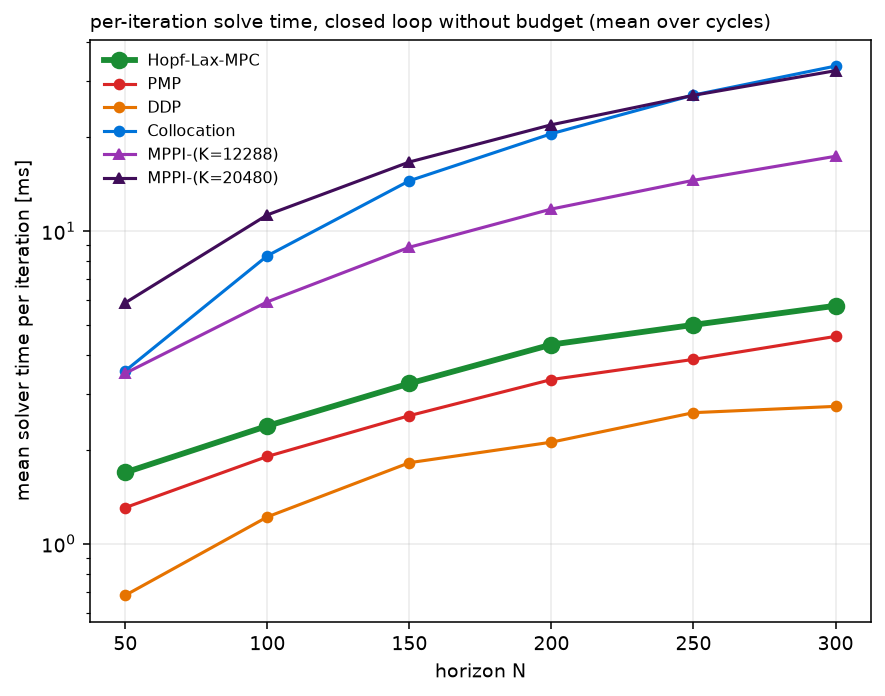
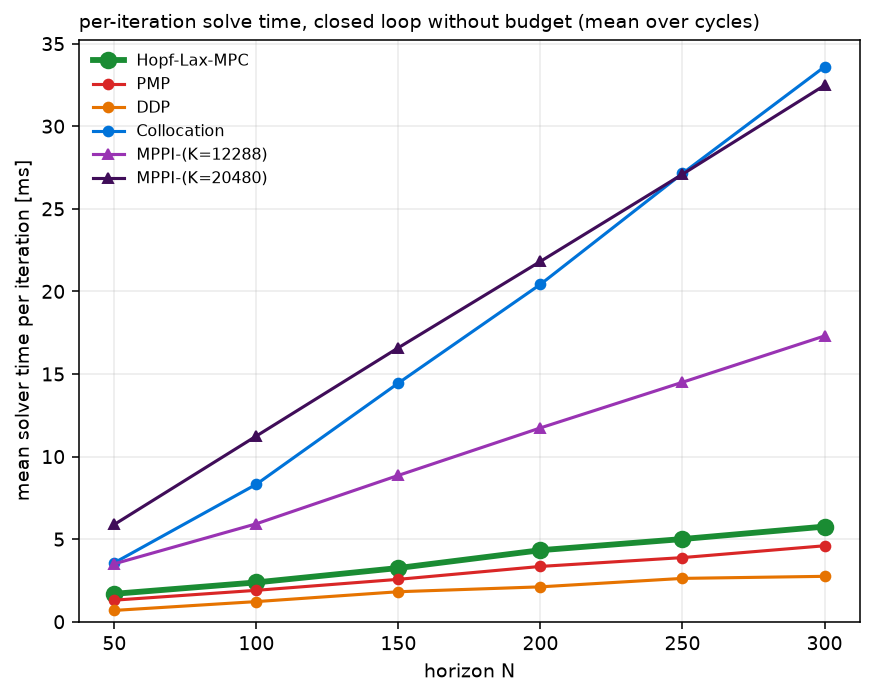
N sweep: per-iteration figures -- mean-only on a linear axis, plus a max-only figure

diff --git a/plot_N_sweep.py b/plot_N_sweep.py
@@ -80,7 +80,9 @@ def main():
     ap.add_argument("--out", default="figs/N_sweep_nobudget.png")
     ap.add_argument("--out2", default="figs/N_sweep_periter.png", help="per-iteration time figure")
     ap.add_argument("--out3", default="figs/N_sweep_periter_mean.png",
-                    help="per-iteration time figure, mean only")
+                    help="per-iteration time figure, mean only (linear axis)")
+    ap.add_argument("--out4", default="figs/N_sweep_periter_max.png",
+                    help="per-iteration time figure, max only (linear axis)")
     ap.add_argument("--complexity", default="results_complexity.pkl",
                     help="complexity-study pickle whose iterbench is overlaid (skipped if missing)")
     args = ap.parse_args()
@@ -209,23 +211,25 @@ def main():
     fig2.savefig(args.out2, bbox_inches="tight")
     print(f"saved {args.out2}")
 
-    # ---- figure 3: per-iteration solve time, MEAN only (no max, no benchmark overlay) ----
-    fig3, ax = plt.subplots(figsize=(7.2, 5.4), dpi=140)
-    for m in methods:
-        Ns = sorted(k[1] for k in runs if k[0] == m)
-        ss = [stats(runs[(m, N)]) for N in Ns]
-        col, lbl = COL.get(m, (.3, .3, .3)), LBL.get(m, m)
-        mk = "^" if m.startswith("mppi") else "o"
-        lw, ms = (3.0, 8) if m == "m1v2" else (1.6, 5)
-        ax.plot(Ns, [s["pi_mean"] for s in ss], "-" + mk, color=col, lw=lw, ms=ms, label=lbl)
-    ax.set_yscale("log")
-    ax.set_xlabel("horizon N"); ax.set_ylabel("mean solver time per iteration [ms]")
-    ax.set_title("per-iteration solve time, closed loop without budget (mean over cycles)",
-                 loc="left", fontsize=10)
-    ax.grid(alpha=0.25)
-    ax.legend(frameon=False, fontsize=8)
-    fig3.savefig(args.out3, bbox_inches="tight")
-    print(f"saved {args.out3}")
+    # ---- figures 3 / 4: per-iteration solve time, MEAN only and MAX only (linear axis, no overlay) ----
+    for key, ylab, word, out in [("pi_mean", "mean solver time per iteration [ms]", "mean", args.out3),
+                                 ("pi_max", "max solver time per iteration [ms]", "max", args.out4)]:
+        figk, ax = plt.subplots(figsize=(7.2, 5.4), dpi=140)
+        for m in methods:
+            Ns = sorted(k[1] for k in runs if k[0] == m)
+            ss = [stats(runs[(m, N)]) for N in Ns]
+            col, lbl = COL.get(m, (.3, .3, .3)), LBL.get(m, m)
+            mk = "^" if m.startswith("mppi") else "o"
+            lw, ms = (3.0, 8) if m == "m1v2" else (1.6, 5)
+            ax.plot(Ns, [s[key] for s in ss], "-" + mk, color=col, lw=lw, ms=ms, label=lbl)
+        ax.set_ylim(bottom=0)
+        ax.set_xlabel("horizon N"); ax.set_ylabel(ylab)
+        ax.set_title(f"per-iteration solve time, closed loop without budget ({word} over cycles)",
+                     loc="left", fontsize=10)
+        ax.grid(alpha=0.25)
+        ax.legend(frameon=False, fontsize=8)
+        figk.savefig(out, bbox_inches="tight")
+        print(f"saved {out}")
 
 
 if __name__ == "__main__":

diff --git a/README.md b/README.md
@@ -216,7 +216,8 @@ structural worst-case per-iteration benchmark of the complexity study (`results_
   The closed-loop means agree with the open-loop benchmark: PMP and DDP sit on their benchmark
   lines, and Hopf-Lax-MPC's mean lies between PMP's line and its own worst-case kick iteration.
 
-A mean-only version of the same figure is `figs/N_sweep_periter_mean.png`.
+Mean-only and max-only versions of the same quantity, on linear axes, are
+`figs/N_sweep_periter_mean.png` and `figs/N_sweep_periter_max.png`.
 
 Why this figure differs from the left panel of `figs/complexity_vs_N_maxiter.png` (section 2):
 
